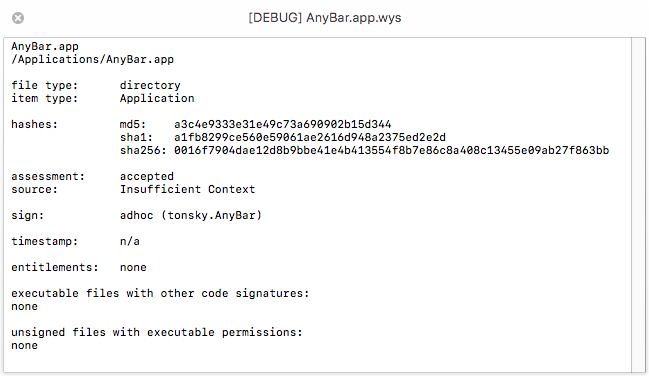
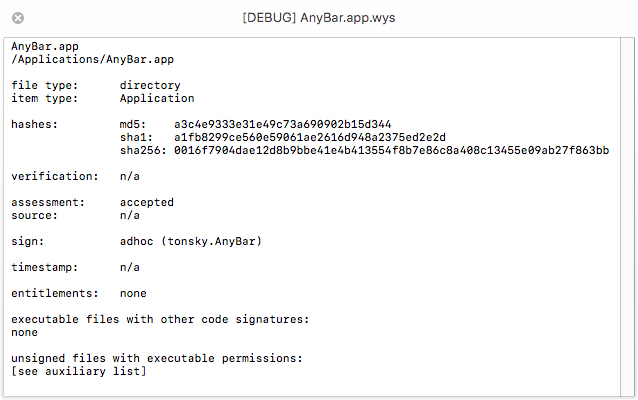
v0.98: cert verify & aux lists + updated screengrabs

diff --git a/README.md b/README.md
@@ -35,7 +35,7 @@ In addition to the default WhatsYourSign functionality, **wys** also:
 
 ## Beta status
 * still needs testing, especially for executable deep scan (any misses? too much?)
-* find revocation list to manually check certificates & not rely on spctl
+* research timestamp vs. signing time
 * might need a one-line result at the top, similar to WhatsYourSign appex
 
 ## Screengrabs
@@ -54,11 +54,9 @@ In addition to the default WhatsYourSign functionality, **wys** also:
 
 *Notice the bogey `script` file, which starts the download of the cryptominer malware.*
 
+*Please note that the security assessment using `spctl` can still accept a codesigning certificate, while the more up-to-date verification with `security` already shows it as *revoked*.*
+
 ![grab13](https://github.com/JayBrown/wys-WhatsYourSign-shell-script-version/blob/master/img/grab_wys-malware2.jpg)
-
-#### Application with cracked executables using proprietary code signatures
-
-![grab7](https://github.com/JayBrown/wys-WhatsYourSign-shell-script-version/blob/master/img/grab_wys-app-cracked.jpg)
 
 #### Application with entitlements (Apple System)
 
@@ -99,3 +97,12 @@ In addition to the default WhatsYourSign functionality, **wys** also:
 #### xip archive signed with locally trusted key
 
 ![grab14](https://github.com/JayBrown/wys-WhatsYourSign-shell-script-version/blob/master/img/grab_wys-xip-user.jpg)
+
+#### Application with cracked executables using proprietary code signatures
+
+![grab7](https://github.com/JayBrown/wys-WhatsYourSign-shell-script-version/blob/master/img/grab_wys-app-cracked.jpg)
+
+#### Auxiliary list with unsigned executable files
+*Note that some developers erroneously set the executable bits on files that do not need it; *wys* scans will take longer in these cases.*
+
+![grab15](https://github.com/JayBrown/wys-WhatsYourSign-shell-script-version/blob/master/img/grab_wys-app-cracked-aux.jpg)
